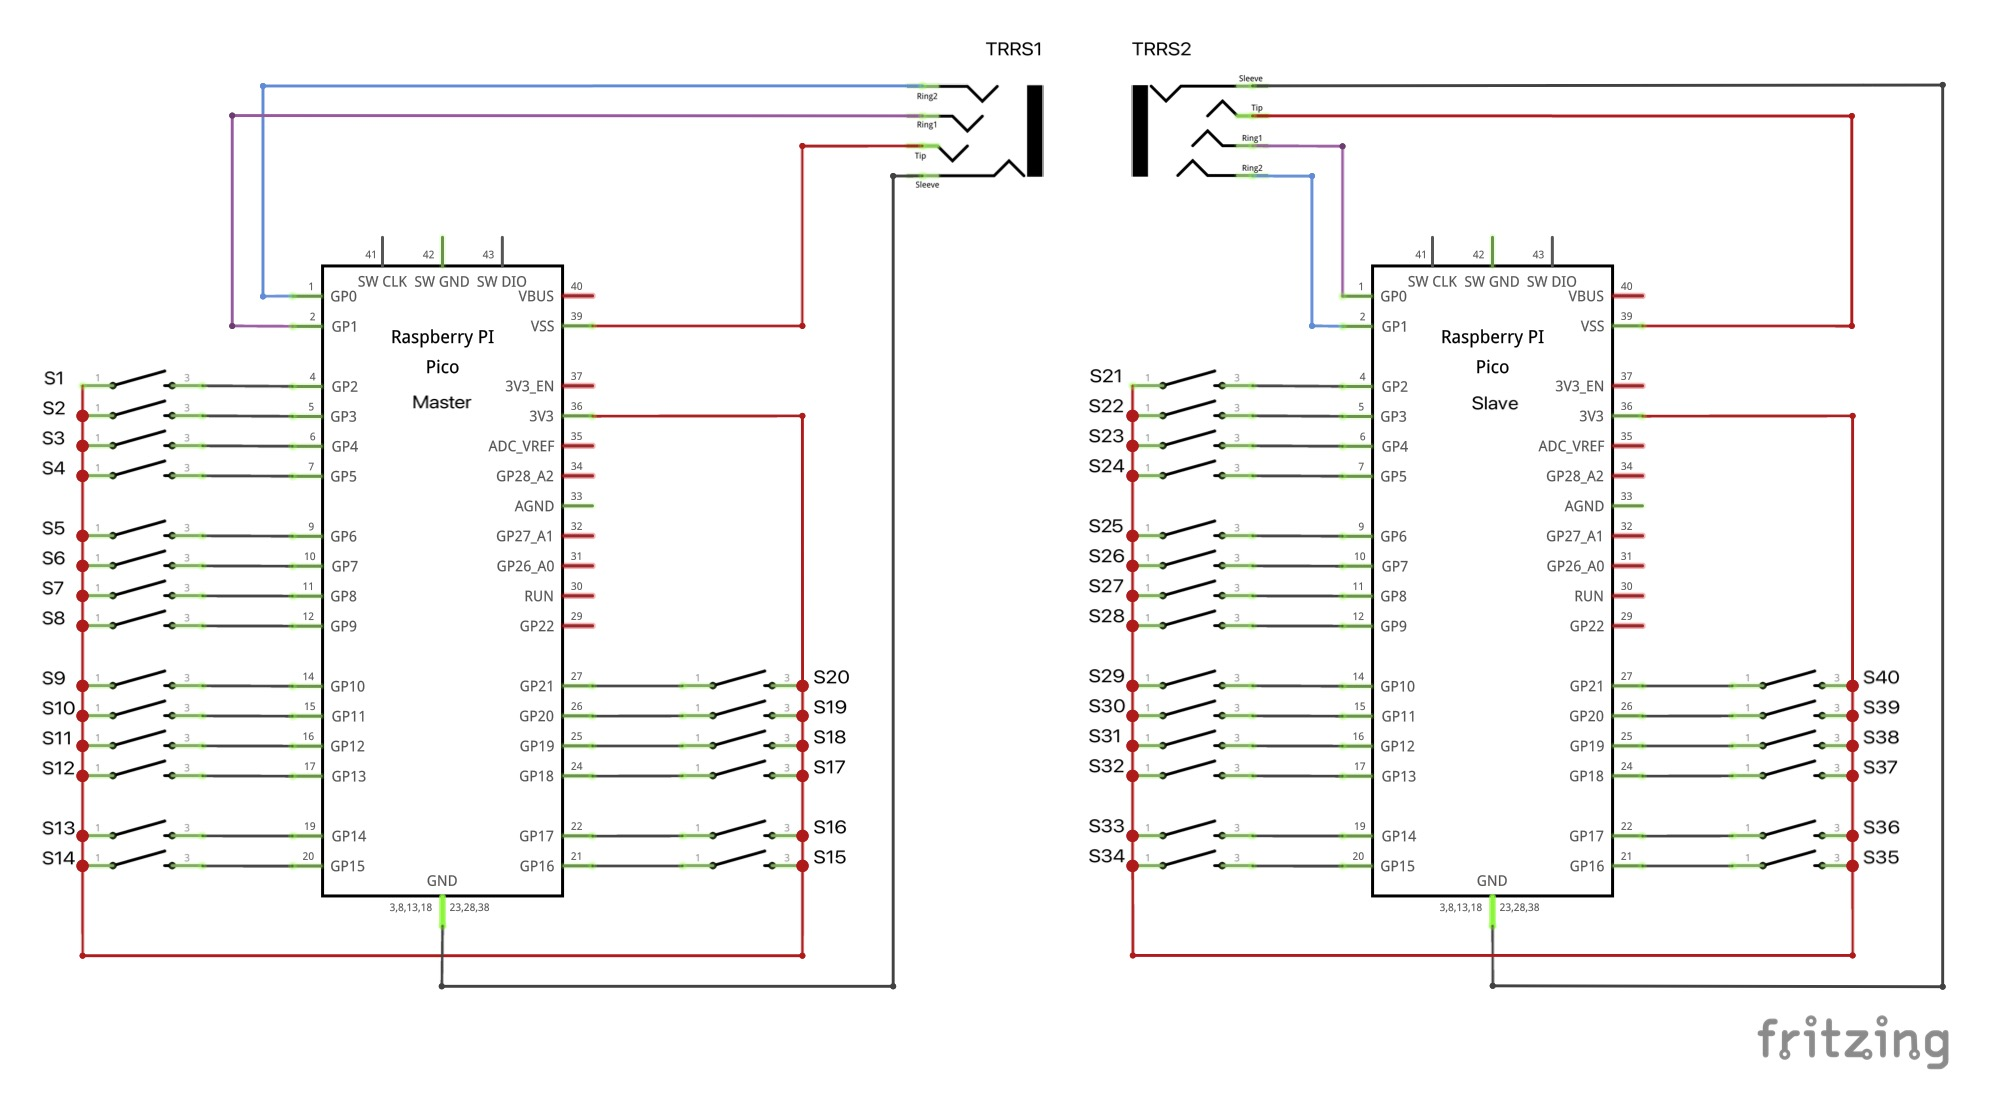
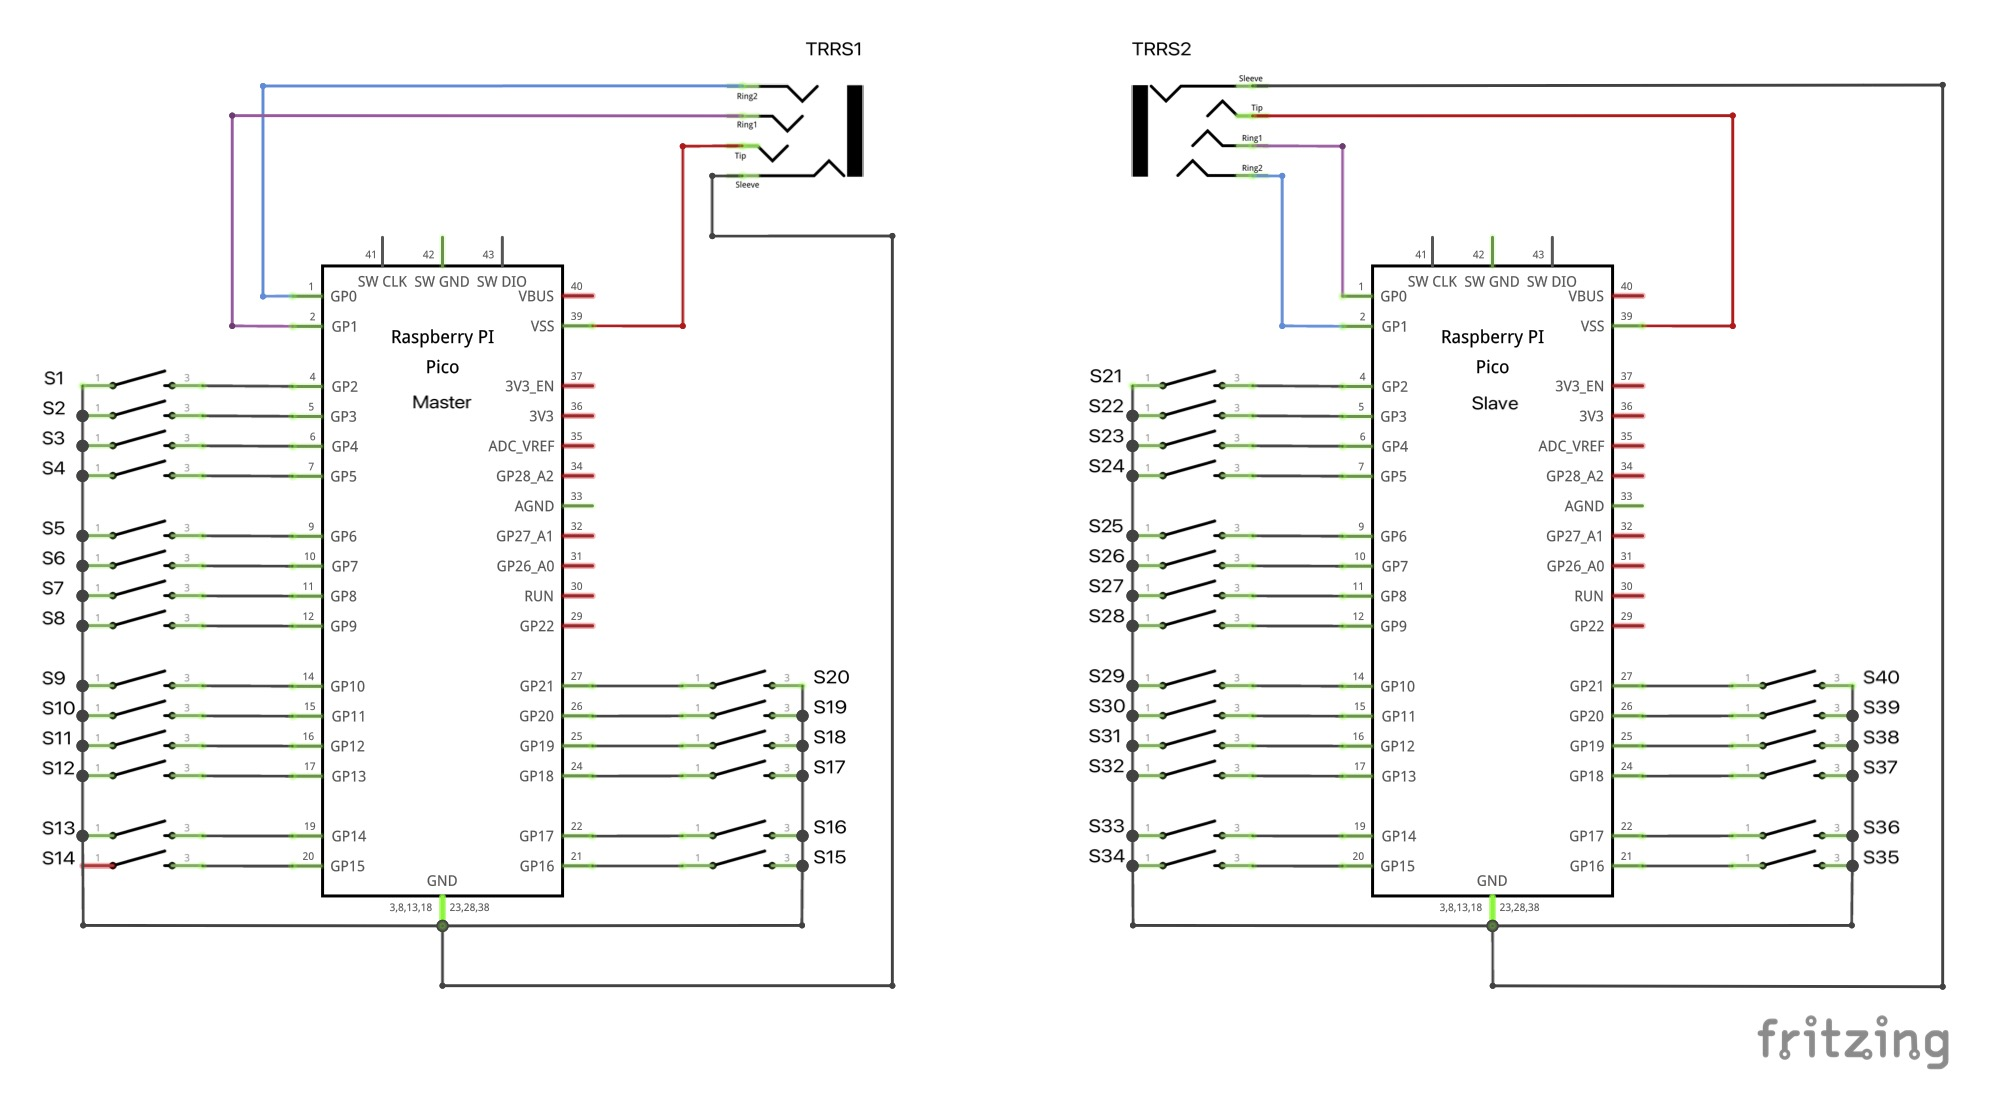
Switches are now wired to ground instead of Vcc

diff --git a/Master/lib/picosplit/split_keypad.py b/Master/lib/picosplit/split_keypad.py
@@ -45,7 +45,7 @@ class SplitKeypad(Keypad):
         self._last_own_pressed_buttons = 0
         self._last_other_pressed_buttons = 0
         self.key_pins = pins
-        self.keys = keypad.Keys(self.key_pins, value_when_pressed=True, pull=True)
+        self.keys = keypad.Keys(self.key_pins, value_when_pressed=False, pull=True)
         self.states = [False] * self.keys.key_count
         self.own_button_count = len(self.key_pins)
         self.button_count = self.own_button_count + numberOfSlaveKeys

diff --git a/Slave/main.py b/Slave/main.py
@@ -56,7 +56,7 @@ class SlaveKeypad:
                          board.GP19,
                          board.GP20,
                          board.GP21)
-        self.keys = keypad.Keys(self.key_pins, value_when_pressed=True, pull=True)
+        self.keys = keypad.Keys(self.key_pins, value_when_pressed=False, pull=True)
         self.states = [False] * self.keys.key_count
 
     def value(self):

diff --git a/README.md b/README.md
@@ -4,7 +4,6 @@
 
 PicoSplit is a DIY 3D-printed split keyboard that uses two Raspberry Pi Pico controllers with a CircuitPython based firmware. **This repository contains the firmware.** You can find the building instructions for the hardware and the 3D files on my homepage: [PicoSplit Home](https://kaenner.de/picosplit).
 
-
 # PicoSplit keyboard
 
 - Fully 3D-printable with common FDM printers.
@@ -57,28 +56,29 @@ If you want to build a different keyboard than the PicoSplit keyboard, you may w
 
 ```
 kb = loader.keyboard(SplitKeypad(20, (board.GP2,
-		  board.GP3,
-		  board.GP4,
-		  board.GP5,
-		  board.GP6,
-		  board.GP7,
-		  board.GP8,
-		  board.GP9,
-		  board.GP10,
-		  board.GP11,
-		  board.GP12,
-		  board.GP13,
-		  board.GP14,
-		  board.GP15,
-		  board.GP16,
-		  board.GP17,
-		  board.GP18,
-		  board.GP19,
-		  board.GP20,
-		  board.GP21)))
+          board.GP3,
+          board.GP4,
+          board.GP5,
+          board.GP6,
+          board.GP7,
+          board.GP8,
+          board.GP9,
+          board.GP10,
+          board.GP11,
+          board.GP12,
+          board.GP13,
+          board.GP14,
+          board.GP15,
+          board.GP16,
+          board.GP17,
+          board.GP18,
+          board.GP19,
+          board.GP20,
+          board.GP21)))
 ```
 
 Change `self.key_pins` in **Slave/main.py** if you want to adjust the number of keys or the pins used in the slave keyboard. 
+
 ```
  self.key_pins = (board.GP2,
                   board.GP3,
@@ -112,7 +112,7 @@ kb = loader.keyboard(SplitKeypad( 20, ...
 
 The PicoSplit-Firmware is based on CircuitPython version 7.1. Previous versions do not work. Go to [https://circuitpython.org/board/raspberry_pi_pico/](https://circuitpython.org/board/raspberry_pi_pico/) and install CircuitPython on both keyboard halves. Then proceed with the next steps.
 
-### Slave 
+### Slave
 
 1. Connect the slave keyboard to your computer. 
 2. A USB drive with the name CIRCUITPY appears inside the Finder (macOS) or Explorer (Windows).
@@ -153,7 +153,7 @@ The recorded hardware key number is now visible at the center of the key (**25**
 
 If a **mapping.js** file is availabe on the keyboard, the keyboard stops emitting hardware key numbers and instead emits the key codes defined by the rules in **layout.js**.
 
-### Creating an own key arrangement
+### Creating your own key arrangement
 
 The key arrangement is not hard coded. You can change it by modifying the file **keypositions.js**. A line in this file starts with the layout key number followed by the position and the rotation of the key. 
 
@@ -180,7 +180,7 @@ The PinMapper.html file then shows these keys:
 
 The keyboard layout is defined in **layout.js**. If you wonder why these and other files have the extension **.js**: They can be loaded as Javascript into a locally opened HTML page. For example: **PinMapper.html** uses this mechanism to read the key positions from **keypositions.js**. There is actually no HTML based tool for managing **layout.js**, but maybe there will be one in the future. 
 
-#### Sections 
+#### Sections
 
 **layout.js** consists of sections. Each section begins with a section keyword in one line and ends with the next empty line. These are the three available section types:
 
@@ -190,7 +190,7 @@ The keyboard layout is defined in **layout.js**. If you wonder why these and oth
 
 The order and count is important. It starts with the keyboard section, followed by a layout section and finally one or more layer sections.
 
-#### Keyboard section 
+#### Keyboard section
 
 The keyboard section defines some timeouts which apply to all keys. 
 
@@ -199,7 +199,9 @@ keyboard
 tap_timeout=0.15
 long_tap_timeout=0.4
 ```
+
 To describe these values, I would like to briefly discuss various action triggers. The PicoSplit firmware supports three triggers for each key:
+
 - tap
 - long_tap
 - hold
@@ -212,7 +214,7 @@ A **hold action** is immediately triggered when you press a key. If you release 
 
 You are probably wondering what this is good for? With the hold action you can assign modifiers to keys which are normally used to type characters. The PicoSplit keyboard uses hold actions to put all modifiers on the home position keys. Hold actions are also used to activate some layers. 
 
-#### Layout section 
+#### Layout section
 
 The layout section has just one property, the name of the layout. Currently **layout.js** can have only one layout section.
 
@@ -221,7 +223,7 @@ layout
 name=US macOS
 ```
 
-#### Layer section 
+#### Layer section
 
 A layer has a name. It contains rules for action triggers (`tap`, `long_tap` or `hold`). There must be at least one layer - the base layer - and you can define multiple additional layers. Only one layer can be active at any time. However, rules do not have to be defined for all keys on each layer. For keys without a rule, the rule from the base layer is used.
 
@@ -237,7 +239,7 @@ name=Base
 layer
 name=Special
 18 : tap=ResetKeyboard
-                
+
 layer
 name=Umlaut
  6 : tap=Sequence[Codes[ LEFT_ALT, U ]; Codes[ A ]] : long_tap=Sequence[Codes[ LEFT_ALT, U ]; Codes[ LEFT_SHIFT, A ]] : hold=Codes[ LEFT_GUI ]
@@ -273,6 +275,7 @@ The layout is well thought out. I use it on a Mac with an English keyboard setti
 ## Keyboard modes and boot behavior
 
 The keyboard has two operating modes:
+
 1. If the PicoSplit is not in maintenance mode, it is a single keyboard device. 
 2. If it is in maintenance mode, it shows up as a keyboard and as a USB memory drive. 
 
@@ -283,15 +286,3 @@ If you want to always boot the keyboard in maintenance mode set maintenance_mode
 ```
 maintenance_mode = True
 ```
-
-
-
-
-
-
-
-
-
-
-
-
